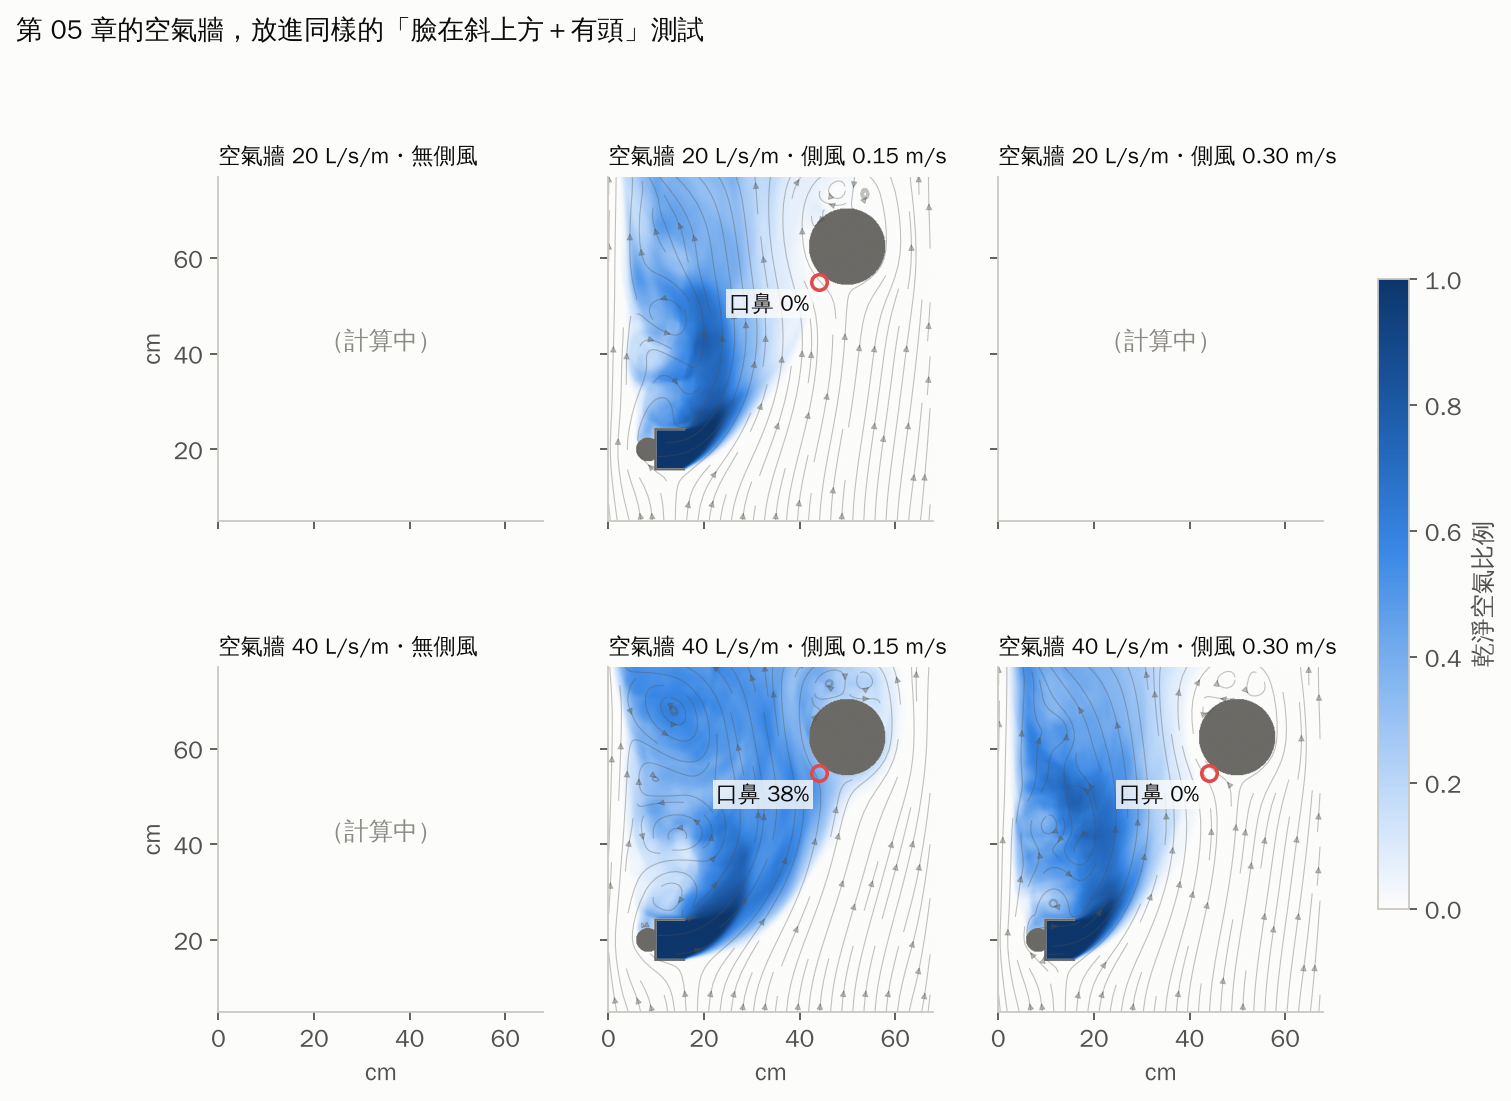
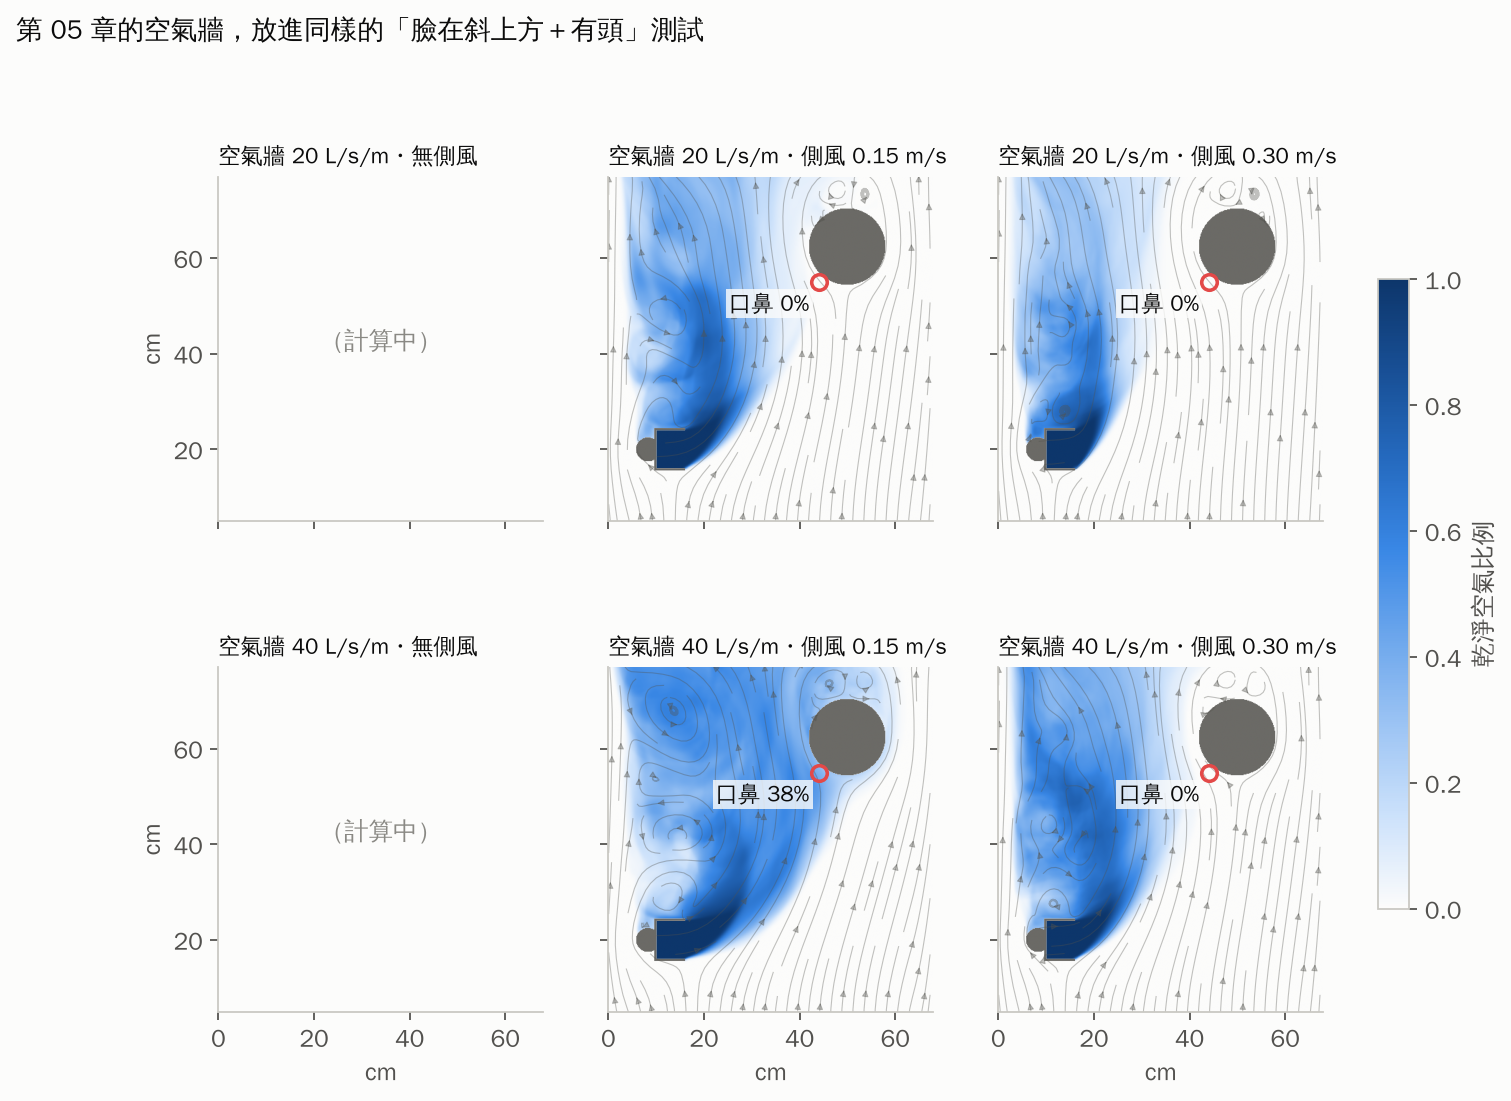
Face-above: 15/18 results (W20, crossflow 0.30)
Claude-Session: https://claude.ai/code/session_01CLMVR9XzZXdsSKCMSLUbBG

Changed region(s): [[0.6532, 0.1544, 0.8709, 0.4632]]

diff --git a/stairwell-airflow-sim/report/index.html b/stairwell-airflow-sim/report/index.html
@@ -173,7 +173,7 @@ footer { margin-top: 48px; padding-top: 20px; border-top: 1px solid var(--line);
   <h1>扶手送風模擬報告</h1>
   <p class="question">一根貫穿整棟樓的扶手，平時能不能流通、淨化空氣？火災時能幫逃生者做到什麼？用電腦模擬一項一項檢查。</p>
   <div class="meta"><span>日期 <b>2026-10-19</b></span><span>專案 <b>長庚大學工業設計學系 林煜宸</b></span><span>模擬與撰寫 <b>Claude（AI）</b></span></div>
-  <div class="progress" role="status"><p>臉在斜上方的出風口重算：已完成 14/18 組，整體約 92%，預計台灣時間 <b>23:54</b> 前後完成</p><div class="bar" aria-hidden="true"><span style="width:91.7%"></span></div><div class="chips"><span class="chip chip-run"><b>B 康達往上</b>・無側風　87%</span><span class="chip chip-done"><b>B 康達往上</b>・側風 0.15　完成</span><span class="chip chip-done"><b>B 康達往上</b>・側風 0.30　完成</span><span class="chip chip-done"><b>A 一般</b>・側風 0.30　完成</span><span class="chip chip-done"><b>C 低混合</b>・側風 0.30　完成</span><span class="chip chip-done"><b>D 倍增</b>・側風 0.30　完成</span><span class="chip chip-done"><b>A 一般</b>・無側風　完成</span><span class="chip chip-done"><b>A 一般</b>・側風 0.15　完成</span><span class="chip chip-done"><b>D 倍增</b>・無側風　完成</span><span class="chip chip-done"><b>D 倍增</b>・側風 0.15　完成</span><span class="chip chip-done"><b>C 低混合</b>・側風 0.15　完成</span><span class="chip chip-done"><b>C 低混合</b>・無側風　完成</span><span class="chip chip-done"><b>W 空氣牆 40</b>・側風 0.15　完成</span><span class="chip chip-done"><b>W 空氣牆 20</b>・側風 0.15　完成</span><span class="chip chip-done"><b>W 空氣牆 40</b>・側風 0.30　完成</span><span class="chip chip-run"><b>W 空氣牆 20</b>・側風 0.30　92%</span><span class="chip chip-run"><b>W 空氣牆 40</b>・無側風　60%</span><span class="chip chip-run"><b>W 空氣牆 20</b>・無側風　45%</span></div><p class="muted small">進度在每次更新報告時重新計算（最後更新：台灣時間 10/19 23:39）。</p></div>
+  <div class="progress" role="status"><p>臉在斜上方的出風口重算：已完成 15/18 組，整體約 94%，預計台灣時間 <b>23:55</b> 前後完成</p><div class="bar" aria-hidden="true"><span style="width:93.7%"></span></div><div class="chips"><span class="chip chip-run"><b>B 康達往上</b>・無側風　90%</span><span class="chip chip-done"><b>B 康達往上</b>・側風 0.15　完成</span><span class="chip chip-done"><b>B 康達往上</b>・側風 0.30　完成</span><span class="chip chip-done"><b>A 一般</b>・側風 0.30　完成</span><span class="chip chip-done"><b>C 低混合</b>・側風 0.30　完成</span><span class="chip chip-done"><b>D 倍增</b>・側風 0.30　完成</span><span class="chip chip-done"><b>A 一般</b>・無側風　完成</span><span class="chip chip-done"><b>A 一般</b>・側風 0.15　完成</span><span class="chip chip-done"><b>D 倍增</b>・無側風　完成</span><span class="chip chip-done"><b>D 倍增</b>・側風 0.15　完成</span><span class="chip chip-done"><b>C 低混合</b>・側風 0.15　完成</span><span class="chip chip-done"><b>C 低混合</b>・無側風　完成</span><span class="chip chip-done"><b>W 空氣牆 40</b>・側風 0.15　完成</span><span class="chip chip-done"><b>W 空氣牆 20</b>・側風 0.15　完成</span><span class="chip chip-done"><b>W 空氣牆 40</b>・側風 0.30　完成</span><span class="chip chip-done"><b>W 空氣牆 20</b>・側風 0.30　完成</span><span class="chip chip-run"><b>W 空氣牆 40</b>・無側風　65%</span><span class="chip chip-run"><b>W 空氣牆 20</b>・無側風　60%</span></div><p class="muted small">進度在每次更新報告時重新計算（最後更新：台灣時間 10/19 23:41）。</p></div>
 </header>
 <nav class="toc" aria-label="章節">
   <a href="#summary">一頁看懂</a><a href="#method">怎麼測的</a><a href="#daily">平時：新風帶</a><a href="#fire">火災：守護路線</a>
@@ -451,16 +451,16 @@ footer { margin-top: 48px; padding-top: 20px; border-top: 1px solid var(--line);
 
 <section id="nozzle">
   <h2><span class="no">04</span>四種出風口比一比（臉在扶手斜上方）</h2>
-  <p class="oneliner">臉在扶手斜上方時（已完成 14/18 組），目前口鼻乾淨空氣最高的是 C 低混合同軸（無側風）：40%。</p>
+  <p class="oneliner">臉在扶手斜上方時（已完成 15/18 組），目前口鼻乾淨空氣最高的是 C 低混合同軸（無側風）：40%。</p>
   <figure class="fig render"><img class="img-any" src="assets/render_nozzles.webp" alt="四種扶手側面出風口形式比較" loading="lazy"><figcaption>四種出風口的造型構想（設計渲染圖）。圖中文字是設計構想，實際結果以下方模擬為準。</figcaption></figure>
   <figure class="fig"><img class="img-light" src="assets/s2f_saf_bars.png" alt="臉在斜上方時四種出風口的乾淨空氣比例" loading="lazy"><img class="img-dark" src="assets/s2f_saf_bars_dark.png" alt="臉在斜上方時四種出風口的乾淨空氣比例" loading="lazy"><figcaption>每條橫條代表 100% 的吸入空氣，彩色部分是來自出風口的乾淨空氣。黑色短線是最差 10% 的時刻。</figcaption></figure>
   <div class="points prose">
 <p><b>為什麼重算：</b>人扶著內側扶手下樓時，臉在扶手的<b>斜上方</b>，不是正前方。這組把口鼻放在出風口往樓梯側 28 cm、往上 35 cm（距離約 45 cm、仰角約 51°）；A、C、D 出風口改成朝向口鼻，B 改用藏在底面、往上轉的康達出風口。每公尺送風量都是 5 L/s，網格 1.5 mm。<span class="tag tag-sim">模擬結果</span></p>
-<div class="table-wrap"><table><thead><tr><th scope="col">出風口（數字＝口鼻吸到的乾淨空氣比例）</th><th scope="col">無側風</th><th scope="col">側風 0.15</th><th scope="col">側風 0.30</th></tr></thead><tbody><tr><th scope="row">A 一般定向</th><td class="num">18%</td><td class="num">0%</td><td class="num">0%</td></tr><tr><th scope="row">B 康達往上</th><td class="num">計算中</td><td class="num">0%</td><td class="num">0%</td></tr><tr><th scope="row">C 低混合同軸</th><td class="num">40%</td><td class="num">0%</td><td class="num">0%</td></tr><tr><th scope="row">D 氣流倍增</th><td class="num">28%</td><td class="num">0%</td><td class="num">0%</td></tr><tr><th scope="row">W 空氣牆 20 L/s/m</th><td class="num">計算中</td><td class="num">0%</td><td class="num">計算中</td></tr><tr><th scope="row">W 空氣牆 40 L/s/m</th><td class="num">計算中</td><td class="num">38%</td><td class="num">0%</td></tr></tbody></table></div>
+<div class="table-wrap"><table><thead><tr><th scope="col">出風口（數字＝口鼻吸到的乾淨空氣比例）</th><th scope="col">無側風</th><th scope="col">側風 0.15</th><th scope="col">側風 0.30</th></tr></thead><tbody><tr><th scope="row">A 一般定向</th><td class="num">18%</td><td class="num">0%</td><td class="num">0%</td></tr><tr><th scope="row">B 康達往上</th><td class="num">計算中</td><td class="num">0%</td><td class="num">0%</td></tr><tr><th scope="row">C 低混合同軸</th><td class="num">40%</td><td class="num">0%</td><td class="num">0%</td></tr><tr><th scope="row">D 氣流倍增</th><td class="num">28%</td><td class="num">0%</td><td class="num">0%</td></tr><tr><th scope="row">W 空氣牆 20 L/s/m</th><td class="num">計算中</td><td class="num">0%</td><td class="num">0%</td></tr><tr><th scope="row">W 空氣牆 40 L/s/m</th><td class="num">計算中</td><td class="num">38%</td><td class="num">0%</td></tr></tbody></table></div>
 <p><b>目前看到的現象（8 組有側風的結果）：</b>有側風時，出風口吹出的乾淨空氣一離開扶手，就被由下往上的氣流帶著<b>貼著扶手正上方往上走</b>，到不了往樓梯側 28 cm 外的臉，口鼻都是 0%。B 康達往上確實有沿圓角轉向上（下面的圖看得到深藍色貼著導風腔轉彎），但轉上去之後一樣直直往上，沒有往臉的方向偏。<span class="tag tag-sim">模擬結果</span></p>
 <p><b>加算空氣牆：</b>先算完的幾組顯示，每公尺 5 L/s 的出風口在有側風時送不到斜上方的臉。所以把第 05 章表現最好的空氣牆（寬 80 mm、每公尺 20 或 40 L/s、水平往樓梯側吹）也放進同一個「臉在斜上方＋有頭」的測試，共 6 組，表格最後兩列。<span class="tag tag-sim">模擬結果</span></p>
 <p class="muted"><b>無側風要算久一點：</b>沒有側風時氣流很慢，乾淨空氣要好幾秒才飄到臉旁。先算的 10 秒版本裡，B、C、D 的口鼻數值還在一路往上爬（B 從 0% 爬到 12%、C 從 15% 爬到 46%、D 從 0% 爬到 36%），代表還沒穩定，所以無側風的 B、C、D 和空氣牆延長到 24 秒重算，取後 16 秒平均。A 的 10 秒版本前後半段差不多（19%／18%），已經穩定。</p>
-<p class="muted">已完成 14/18 組，其餘計算中；每完成一批就會更新。</p></div>
+<p class="muted">已完成 15/18 組，其餘計算中；每完成一批就會更新。</p></div>
   <figure class="fig"><img class="img-light" src="assets/s2f_reach.png" alt="在臉的高度，乾淨空氣層往樓梯側延伸多遠" loading="lazy"><img class="img-dark" src="assets/s2f_reach_dark.png" alt="在臉的高度，乾淨空氣層往樓梯側延伸多遠" loading="lazy"><figcaption>怎麼量：取口鼻上下各 3 cm 的水平帶，算出每個位置的平均乾淨空氣比例，看 ≥ 25%（淺色）和 ≥ 50%（深色）的範圍從出風口出口往樓梯側最遠到幾公分。紅虛線是這次假設的臉（28 cm）；長條超過紅線，臉才吸得到。</figcaption></figure>
   <figure class="fig"><img class="img-light" src="assets/s2f_vc00_fields.png" alt="臉在斜上方、無側風" loading="lazy"><img class="img-dark" src="assets/s2f_vc00_fields_dark.png" alt="臉在斜上方、無側風" loading="lazy"><figcaption>無側風：紅圈是口鼻位置，顏色越深代表出風口的空氣越多。</figcaption></figure>
   <figure class="fig"><img class="img-light" src="assets/s2f_vc15_fields.png" alt="臉在斜上方、側風 0.15 m/s" loading="lazy"><img class="img-dark" src="assets/s2f_vc15_fields_dark.png" alt="臉在斜上方、側風 0.15 m/s" loading="lazy"><figcaption>側風 0.15 m/s（由下往上）。</figcaption></figure>
